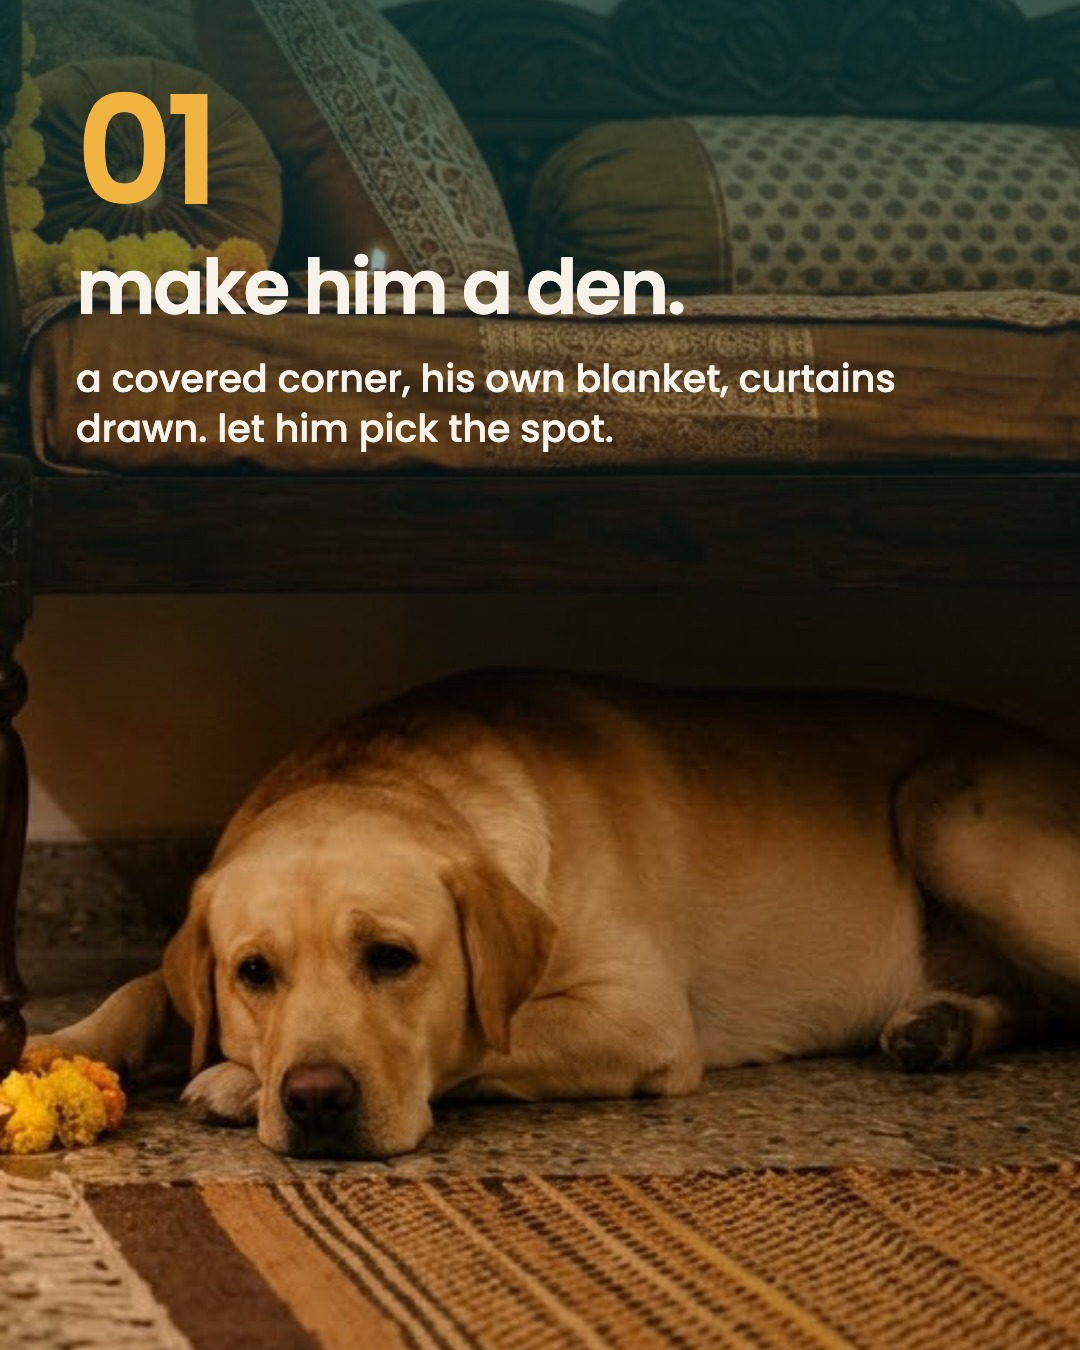
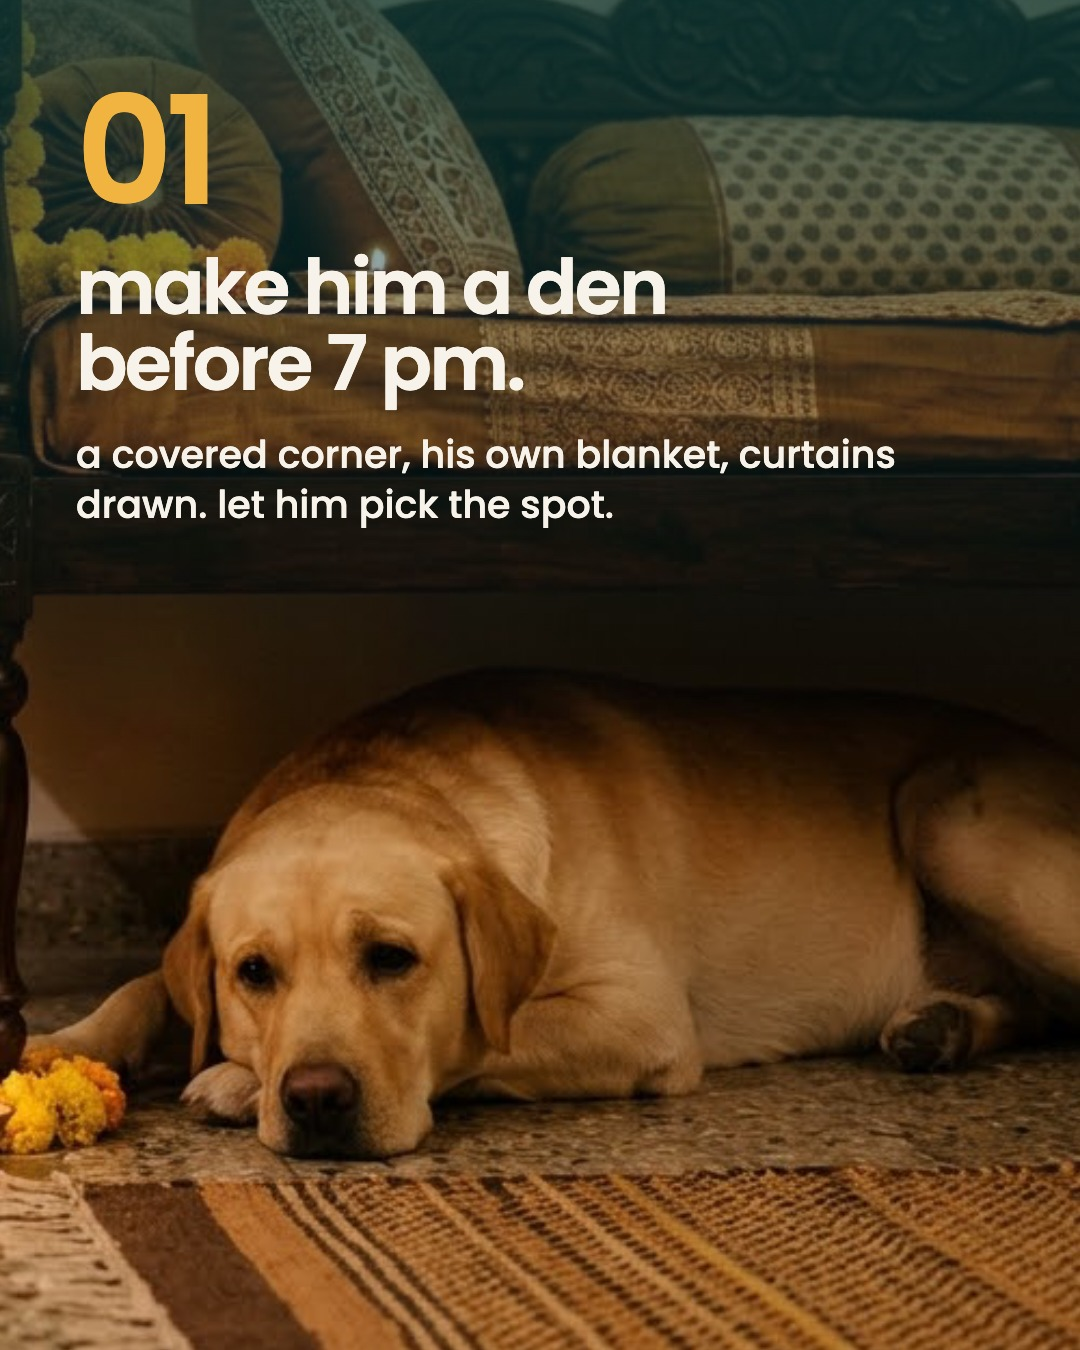
Carousel alt text, music picks and stronger slide 2s for the 6-15 Nov plan
ig.py carousel takes --alt-text per slide (Meta accepted it in a dry run). Every plan
entry now carries alt_text, and carousels carry a music mood plus the in-app Replace
Audio step, since the API cannot attach music. Four slide-2 headlines rewritten to work
as a hook on their own.

Changed region(s): [[0.0611, 0.2178, 0.825, 0.4044]]

diff --git a/scripts/ig.py b/scripts/ig.py
@@ -152,6 +152,7 @@ def main():
     x.add_argument("--publish", action="store_true")
     x = sp.add_parser("carousel"); x.add_argument("acct"); x.add_argument("--image-url", action="append", required=True)
     x.add_argument("--caption-file", required=True); x.add_argument("--collab", default=""); x.add_argument("--publish", action="store_true")
+    x.add_argument("--alt-text", action="append", default=[], help="alt text per slide, in --image-url order (keywords help IG + Google search)")
     x = sp.add_parser("story"); x.add_argument("acct"); x.add_argument("--video-url"); x.add_argument("--image-url")
     x.add_argument("--publish", action="store_true")
     x = sp.add_parser("fb-photos"); x.add_argument("page"); x.add_argument("--image-url", action="append", required=True)
@@ -213,7 +214,9 @@ def main():
         ig = acct(a.acct)
         if not 2 <= len(a.image_url) <= 20:
             die(f"a carousel needs 2 to 20 images, got {len(a.image_url)}")
-        kids = [call("POST", f"{ig}/media", {"image_url": u, "is_carousel_item": "true"})["id"] for u in a.image_url]
+        alts = a.alt_text + [""] * (len(a.image_url) - len(a.alt_text))
+        kids = [call("POST", f"{ig}/media", {"image_url": u, "is_carousel_item": "true", **({"alt_text": t[:1000]} if t else {})})["id"]
+                for u, t in zip(a.image_url, alts)]
         for k in kids:
             wait(k, 5)
         c = call("POST", f"{ig}/media", {"media_type": "CAROUSEL", "children": ",".join(kids),
